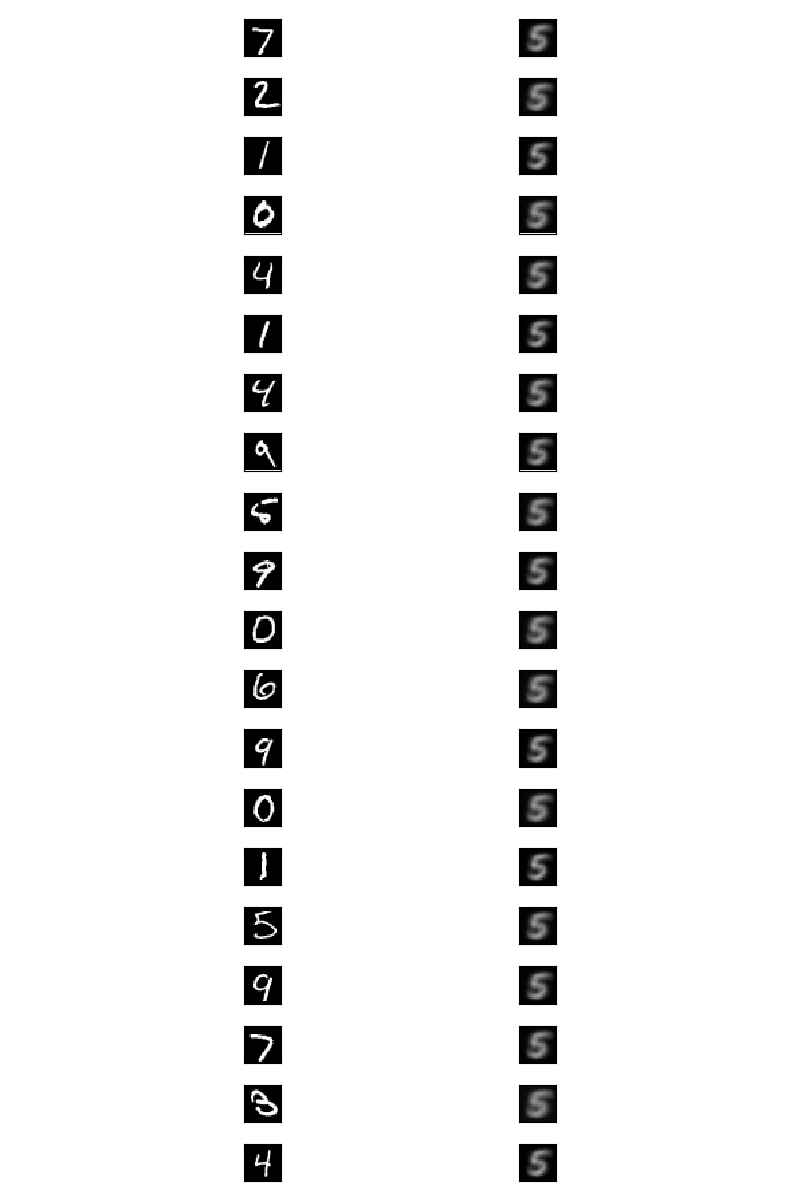
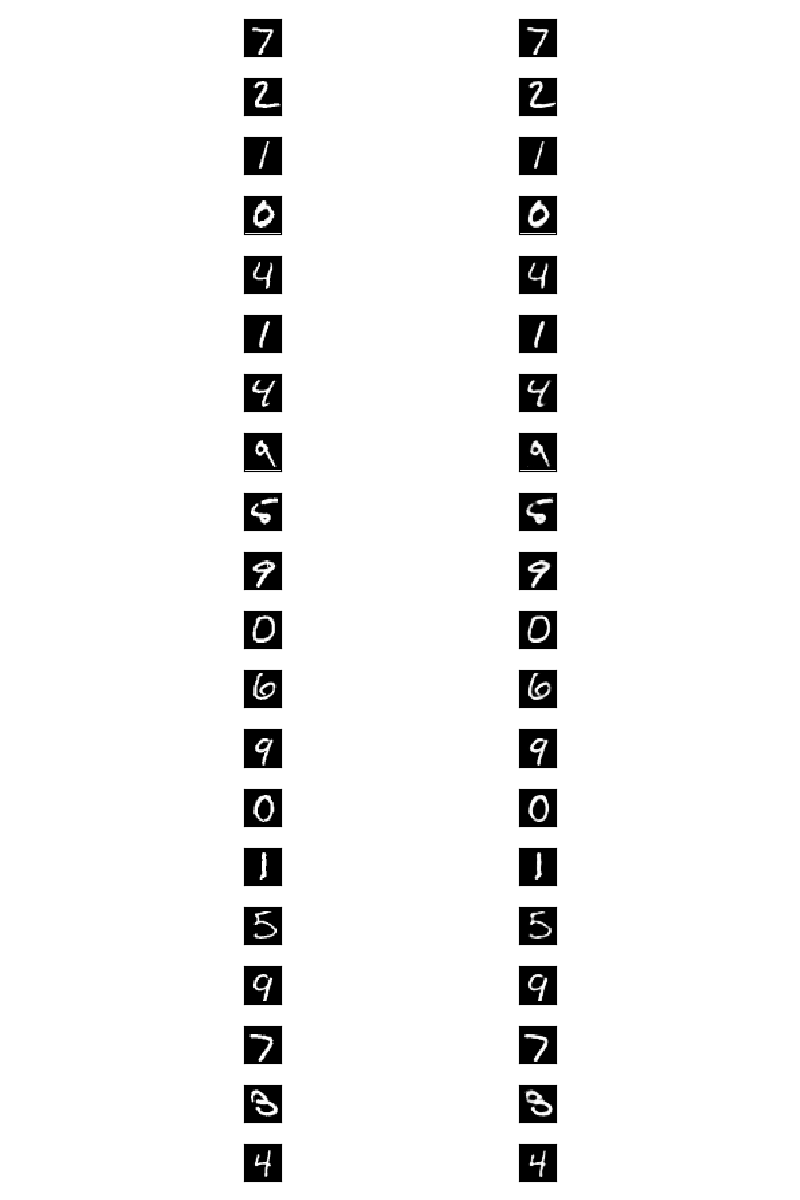
add M1 reconstructed images

Changed region(s): [[0.6562, 0.0, 0.6875, 0.9867]]

diff --git a/vae.py b/vae.py
@@ -110,6 +110,8 @@ if __name__ == '__main__':
     current_dir = os.getcwd()
 
     batch_size = int(50000 / 200)
+    FLAGS['test_batch_size'] = batch_size
+
     np.random.seed(FLAGS['seed'])
     tf.set_random_seed(FLAGS['seed'])
 
